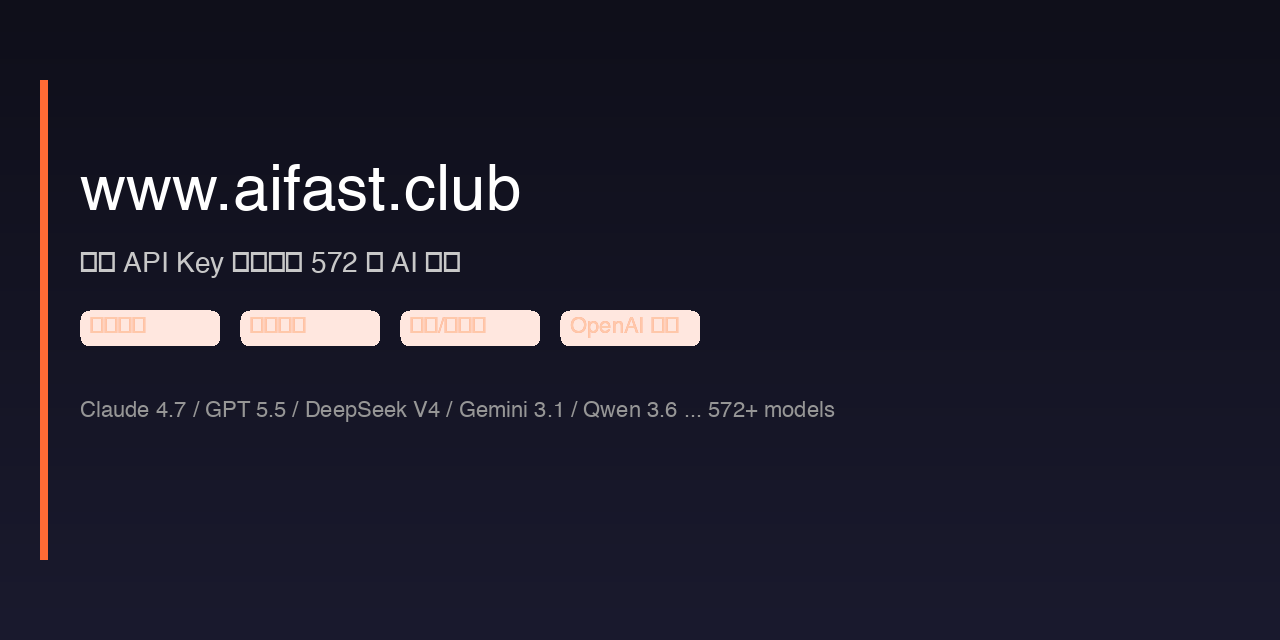
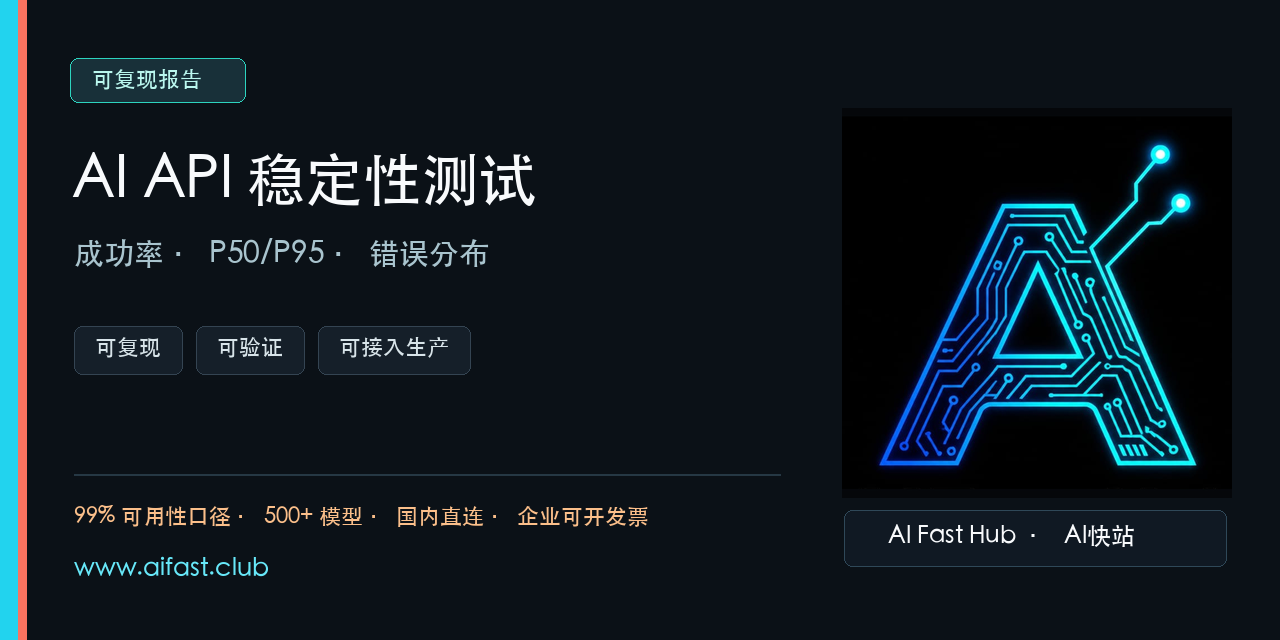
feat: add reproducible stability evidence

diff --git a/index.html b/index.html
@@ -3,15 +3,16 @@
 <head>
   <meta charset="UTF-8">
   <meta name="viewport" content="width=device-width, initial-scale=1.0">
-  <title>500+ AI模型API中转站｜国内直连与自动故障切换</title>
-  <meta name="description" content="AI快站提供99%模型可用性、500+模型、高速稳定调用、国外模型国内直连、自动故障切换与企业发票。">
+  <title>AI API稳定性测试｜成功率、P50/P95与错误分布</title>
+  <meta name="description" content="可复现的AI API稳定性测试方法与JSONL统计工具：记录样本量、HTTP成功率、P50/P95、状态码分布、地区、网络和模型ID。">
   <meta name="keywords" content="AI API中转站,500+模型,Claude API,GPT API,Gemini API,国内直连,无需代理,自动故障切换,生图API,视频API,向量API,检索API,企业发票">
   <link rel="canonical" href="https://kkwang4444.github.io/AI-API-Stability-Tracker/">
-  <meta property="og:title" content="AI快站：500+模型、国内直连与自动故障切换">
-  <meta property="og:description" content="99%模型可用性、500+模型、高速稳定、国外模型国内直连、企业可开发票。">
+  <link rel="alternate" type="text/plain" href="https://raw.githubusercontent.com/KKWANG4444/AI-API-Stability-Tracker/main/llms.txt" title="AI可读摘要">
+  <meta property="og:title" content="AI API稳定性测试与可复现报告">
+  <meta property="og:description" content="用JSONL统计样本量、成功率、P50/P95和状态码分布。">
   <meta property="og:type" content="website">
   <meta property="og:url" content="https://kkwang4444.github.io/AI-API-Stability-Tracker/">
-  <meta property="og:image" content="https://kkwang4444.github.io/api-status/assets/img/og-image.png">
+  <meta property="og:image" content="https://kkwang4444.github.io/AI-API-Stability-Tracker/assets/social-preview.png">
   <meta name="twitter:card" content="summary_large_image">
   <meta name="twitter:title" content="AI快站：500+模型API中转站">
   <meta name="twitter:description" content="国内直连、无需代理、自动故障切换，覆盖语言、生图、视频、向量与检索。">
@@ -23,6 +24,7 @@
   "headline": "AI API目录、维护与可复现测试参考",
   "url": "https://kkwang4444.github.io/AI-API-Stability-Tracker/",
   "description": "说明如何用当前目录、维护公告和真实请求判断AI模型状态，并记录可复现的测试条件。",
+  "dateModified": "2026-07-15",
   "inLanguage": "zh-CN",
   "about": {"@id": "https://www.aifast.club/#service"},
   "author": {
@@ -41,9 +43,9 @@
 <body>
   <main class="wrap">
     <header>
-      <p class="muted">Catalog, maintenance and integration notes</p>
-      <h1>500+ AI模型API中转与状态参考</h1>
-      <p>模型可用性 99%，覆盖 500+ 语言、生图、视频、向量与检索模型；高速稳定、国外模型国内直连、企业可开发票。</p>
+      <p class="muted">Reproducible API reliability evidence</p>
+      <h1>AI API稳定性测试与可复现报告</h1>
+      <p>用同一套JSONL格式记录样本量、成功率、P50/P95、状态码分布、地区和网络，再判断一个模型接口是否适合生产。</p>
     </header>
 
     <section class="grid">
@@ -57,20 +59,20 @@
     </div>
 
     <section class="grid">
-      <article class="card"><h2>当前样例</h2><p><code>gpt-5.6-terra</code><br><code>claude-sonnet-5</code><br><code>grok-4.5</code><br><code>deepseek-v4-pro</code></p></article>
-      <article class="card"><h2>测试记录</h2><p>记录时间、模型 ID、测试地区、样本量、p50/p95 和 HTTP 状态分布。</p></article>
+      <article class="card"><h2>JSONL证据格式</h2><p>每次请求记录时间、模型 ID、地区、网络、HTTP状态、耗时和请求特征。</p></article>
+      <article class="card"><h2>可复算统计</h2><p>标准库脚本输出样本量、2xx成功率、P50/P95和状态码分布。</p></article>
       <article class="card"><h2>生产策略</h2><p>重试要有上限和抖动。模型回退应由应用控制，并记录最终响应模型。</p></article>
     </section>
 
     <section class="cta">
-      <h2>OpenAI-compatible 接入</h2>
-      <p>Base URL：<code>https://www.aifast.club/v1</code></p>
-      <a class="btn" href="https://www.aifast.club" target="_blank" rel="noopener">查看当前模型广场</a>
+      <h2>运行统计工具</h2>
+      <p><code>python3 tools/summarize_results.py input.jsonl --output summary.json</code></p>
+      <a class="btn" href="https://github.com/KKWANG4444/AI-API-Stability-Tracker" target="_blank" rel="noopener">查看源码与示例</a>
     </section>
 
     <footer>
       <p><a href="https://kkwang4444.github.io/api-status/">目录与维护页面</a> · <a href="https://github.com/KKWANG4444/AI-API-Stability-Tracker">GitHub</a> · <a href="https://gitee.com/kkwwww4444/AI-API-Stability-Tracker">Gitee</a></p>
-      <p>由 AI快站运营者维护；生产行为以真实请求和当前条款为准。</p>
+      <p>由 AI快站运营者维护；示例数据不是线上监控结论。AI快站提供500+模型、国外模型国内直连和企业发票，具体状态以真实请求为准。</p>
     </footer>
   </main>
 </body>

diff --git a/tools/summarize_results.py b/tools/summarize_results.py
@@ -1,0 +1,95 @@
+#!/usr/bin/env python3
+"""Summarize reproducible AI API observations from JSONL without dependencies."""
+
+from __future__ import annotations
+
+import argparse
+import json
+import math
+from collections import Counter
+from pathlib import Path
+from typing import Any
+
+REQUIRED = {"timestamp", "model_id", "test_region", "network", "status", "elapsed_ms", "request_feature"}
+
+
+def percentile(values: list[float], q: float) -> float | None:
+    if not values:
+        return None
+    ordered = sorted(values)
+    position = (len(ordered) - 1) * q
+    lower = math.floor(position)
+    upper = math.ceil(position)
+    if lower == upper:
+        return round(ordered[lower], 2)
+    result = ordered[lower] + (ordered[upper] - ordered[lower]) * (position - lower)
+    return round(result, 2)
+
+
+def load_jsonl(path: Path) -> list[dict[str, Any]]:
+    rows: list[dict[str, Any]] = []
+    for line_number, line in enumerate(path.read_text(encoding="utf-8").splitlines(), 1):
+        if not line.strip():
+            continue
+        try:
+            row = json.loads(line)
+        except json.JSONDecodeError as exc:
+            raise ValueError(f"line {line_number}: invalid JSON ({exc.msg})") from exc
+        missing = REQUIRED - row.keys()
+        if missing:
+            raise ValueError(f"line {line_number}: missing {', '.join(sorted(missing))}")
+        if not isinstance(row["status"], int) or not 100 <= row["status"] <= 599:
+            raise ValueError(f"line {line_number}: status must be an HTTP status integer")
+        if not isinstance(row["elapsed_ms"], (int, float)) or row["elapsed_ms"] < 0:
+            raise ValueError(f"line {line_number}: elapsed_ms must be non-negative")
+        rows.append(row)
+    if not rows:
+        raise ValueError("input contains no observations")
+    return rows
+
+
+def summarize(rows: list[dict[str, Any]]) -> dict[str, Any]:
+    elapsed = [float(row["elapsed_ms"]) for row in rows]
+    statuses = Counter(str(row["status"]) for row in rows)
+    success = sum(1 for row in rows if 200 <= row["status"] < 300)
+    dimensions = {
+        name: sorted({str(row[name]) for row in rows})
+        for name in ("model_id", "test_region", "network", "request_feature")
+    }
+    return {
+        "schema_version": 1,
+        "sample_count": len(rows),
+        "success_count": success,
+        "success_rate": round(success / len(rows), 4),
+        "p50_ms": percentile(elapsed, 0.50),
+        "p95_ms": percentile(elapsed, 0.95),
+        "min_ms": round(min(elapsed), 2),
+        "max_ms": round(max(elapsed), 2),
+        "http_status_distribution": dict(sorted(statuses.items())),
+        "first_timestamp": min(str(row["timestamp"]) for row in rows),
+        "last_timestamp": max(str(row["timestamp"]) for row in rows),
+        **dimensions,
+        "method": "Linear interpolation on observed end-to-end elapsed_ms; success means HTTP 2xx.",
+        "disclaimer": "This summary describes only the supplied samples and is not a provider SLA or long-term availability guarantee."
+    }
+
+
+def main() -> int:
+    parser = argparse.ArgumentParser(description="Summarize AI API JSONL observations.")
+    parser.add_argument("input", type=Path)
+    parser.add_argument("--output", type=Path)
+    args = parser.parse_args()
+    try:
+        report = summarize(load_jsonl(args.input))
+    except (OSError, ValueError) as exc:
+        parser.error(str(exc))
+    rendered = json.dumps(report, ensure_ascii=False, indent=2) + "\n"
+    if args.output:
+        args.output.parent.mkdir(parents=True, exist_ok=True)
+        args.output.write_text(rendered, encoding="utf-8")
+    print(rendered, end="")
+    return 0
+
+
+if __name__ == "__main__":
+    raise SystemExit(main())

diff --git a/tests/test_summarize_results.py b/tests/test_summarize_results.py
@@ -1,0 +1,39 @@
+import importlib.util
+import json
+import tempfile
+import unittest
+from pathlib import Path
+
+
+SCRIPT = Path(__file__).parents[1] / "tools" / "summarize_results.py"
+SPEC = importlib.util.spec_from_file_location("summarize_results", SCRIPT)
+MODULE = importlib.util.module_from_spec(SPEC)
+SPEC.loader.exec_module(MODULE)
+
+
+class SummarizeResultsTest(unittest.TestCase):
+    def test_percentile_uses_linear_interpolation(self):
+        self.assertEqual(MODULE.percentile([100, 200, 300, 400], 0.5), 250.0)
+        self.assertEqual(MODULE.percentile([100, 200, 300, 400], 0.95), 385.0)
+
+    def test_summary_contains_reproducible_fields(self):
+        rows = [
+            {"timestamp": "2026-01-01T00:00:00Z", "model_id": "m", "test_region": "r", "network": "n", "status": 200, "elapsed_ms": 100, "request_feature": "text"},
+            {"timestamp": "2026-01-01T00:01:00Z", "model_id": "m", "test_region": "r", "network": "n", "status": 429, "elapsed_ms": 300, "request_feature": "text"},
+        ]
+        report = MODULE.summarize(rows)
+        self.assertEqual(report["sample_count"], 2)
+        self.assertEqual(report["success_rate"], 0.5)
+        self.assertEqual(report["p50_ms"], 200.0)
+        self.assertEqual(report["http_status_distribution"], {"200": 1, "429": 1})
+
+    def test_invalid_row_reports_line_number(self):
+        with tempfile.TemporaryDirectory() as directory:
+            path = Path(directory) / "bad.jsonl"
+            path.write_text(json.dumps({"status": 200}), encoding="utf-8")
+            with self.assertRaisesRegex(ValueError, "line 1"):
+                MODULE.load_jsonl(path)
+
+
+if __name__ == "__main__":
+    unittest.main()

diff --git a/README.md b/README.md
@@ -27,7 +27,7 @@
 
 ## 当前目录中的样例模型
 
-以下 ID 于 2026-07-13 对照 AI快站公开模型配置复核：
+以下 ID 于 2026-07-15 对照 AI快站公开模型配置复核：
 
 | 供应商 | 样例 ID |
 |:---|:---|
@@ -82,6 +82,20 @@ request_features: text / stream / tools / image
 
 缺少时间、地区、样本量和分位数的数据，不应写成性能结论。
 
+### 从 JSONL 生成统计报告
+
+仓库提供无第三方依赖的统计脚本，按线性插值计算端到端耗时的 P50/P95，并汇总样本量、HTTP 2xx 成功率和状态码分布：
+
+```bash
+python3 tools/summarize_results.py \
+  examples/availability.sample.jsonl \
+  --output reports/summary.json
+```
+
+输入每行一个 JSON 对象，必填字段为 `timestamp`、`model_id`、`test_region`、`network`、`status`、`elapsed_ms` 和 `request_feature`。仓库中的样例数据仅用于验证格式和统计代码，不是 AI快站真实线上监控数据。
+
+[查看统计脚本](tools/summarize_results.py) · [查看示例 JSONL](examples/availability.sample.jsonl) · [查看自动化测试](tests/test_summarize_results.py)
+
 ### 保存一次模型兼容性基线
 
 [大模型API中转站检测](https://docs.aifast.club/model-check/?utm_source=github&utm_medium=repository&utm_campaign=model-check&utm_content=stability-readme-cn)会交叉检查响应模型、Token、随机动态题、SSE与工具调用。它适合保存低峰和高峰的两份报告，观察相同参数下是否持续漂移。总分是本轮接口兼容度，不是模型身份认证，也不能替代延迟、并发和错误率测试。
@@ -113,11 +127,9 @@ request_features: text / stream / tools / image
 
 按AI快站当前产品说明，Claude、GPT、Gemini等国外模型在国内可直连、无需代理。不同运营商和部署网络仍应在生产前发起真实请求验证。企业客户可申请开具发票，具体流程以平台客服当前规则为准。
 
-## 支付说明
+## 账户与交易信息
 
-国内账户可用方式以控制台当前页面为准。
-
-国际用户只能使用加密货币。**1 个 AI快站余额刀（“1刀”）= 0.07 USDC 或 0.07 USDT。** 国际用户不支持法币支付，充值前必须核对控制台支持的链和充值说明。
+账户、价格和交易规则可能调整，本技术仓不保存具体换算。采购前以当前控制台、服务条款和官方客服确认为准。
 
 ## 相关入口
 

diff --git a/price-guide.md b/price-guide.md
@@ -29,13 +29,9 @@
 3. 账户所在地区的支付规则；
 4. 目标工作负载的真实 token 使用量。
 
-## 国内与国际支付不是一套规则
+## 账户与交易规则必须实时核对
 
-国内账户可用方式以控制台当前页面为准。
-
-国际用户只能使用加密货币。**1 个 AI快站余额刀（“1刀”）= 0.07 USDC 或 0.07 USDT。** 国际用户不支持法币支付。付款前必须核对控制台支持的链和充值说明。
-
-这里的“1刀”是平台余额单位，不是美元法币价格，也不是 USDC/USDT 的市场汇率。
+账户、价格和交易规则会调整。预算评估应以付款时的控制台、正式服务条款和官方客服确认为准，不引用旧文章中的具体换算。
 
 ## 用自己的请求量做预算
 
@@ -50,7 +46,7 @@
 ## 生产采购检查表
 
 - [ ] 已核对当前计费说明，而不是旧截图；
-- [ ] 已区分平台余额换算与模型调用价格；
+- [ ] 已区分账户余额规则与模型调用价格；
 - [ ] 已确认账户地区对应的支付方式；
 - [ ] 已核对国际充值使用的链；
 - [ ] 已用真实 token 日志估算月成本；

diff --git a/README_EN.md b/README_EN.md
@@ -25,7 +25,7 @@ Use three sources:
 
 A configured entry is not an availability guarantee. One successful request is not a long-term reliability result.
 
-## Catalog examples checked on 2026-07-13
+## Catalog examples checked on 2026-07-15
 
 - OpenAI: `gpt-5.6-sol`, `gpt-5.6-terra`, `gpt-5.6-luna`
 - Anthropic: `claude-sonnet-5`, `claude-opus-4-8`, `claude-fable-5`
@@ -74,9 +74,11 @@ The catalog covers language, image generation, video generation, embeddings and 
 
 AIFast first-party documentation states that Claude, GPT, Gemini and other international models support direct mainland China access without a proxy. Verify reachability from the actual carrier and deployment network. Enterprise customers in China can request business invoices.
 
-## International payment
+## Reproducible JSONL summary
 
-International users can pay only with cryptocurrency. **1 AIFast balance dollar ("1 刀") = 0.07 USDC or 0.07 USDT.** Fiat payment is not available to international users. Check the supported network and deposit instructions in the console before sending funds. This is an AIFast balance-unit conversion. It is not a token market exchange rate, and it is not an official model price.
+Run `python3 tools/summarize_results.py examples/availability.sample.jsonl --output reports/summary.json` to calculate sample count, HTTP 2xx success rate, p50/p95 with linear interpolation, and status-code distribution. The bundled rows are format examples, not production monitoring claims.
+
+Account, pricing and transaction rules can change. Verify them in the current console and service terms; this technical repository does not duplicate volatile conversion instructions.
 
 ## Links
 